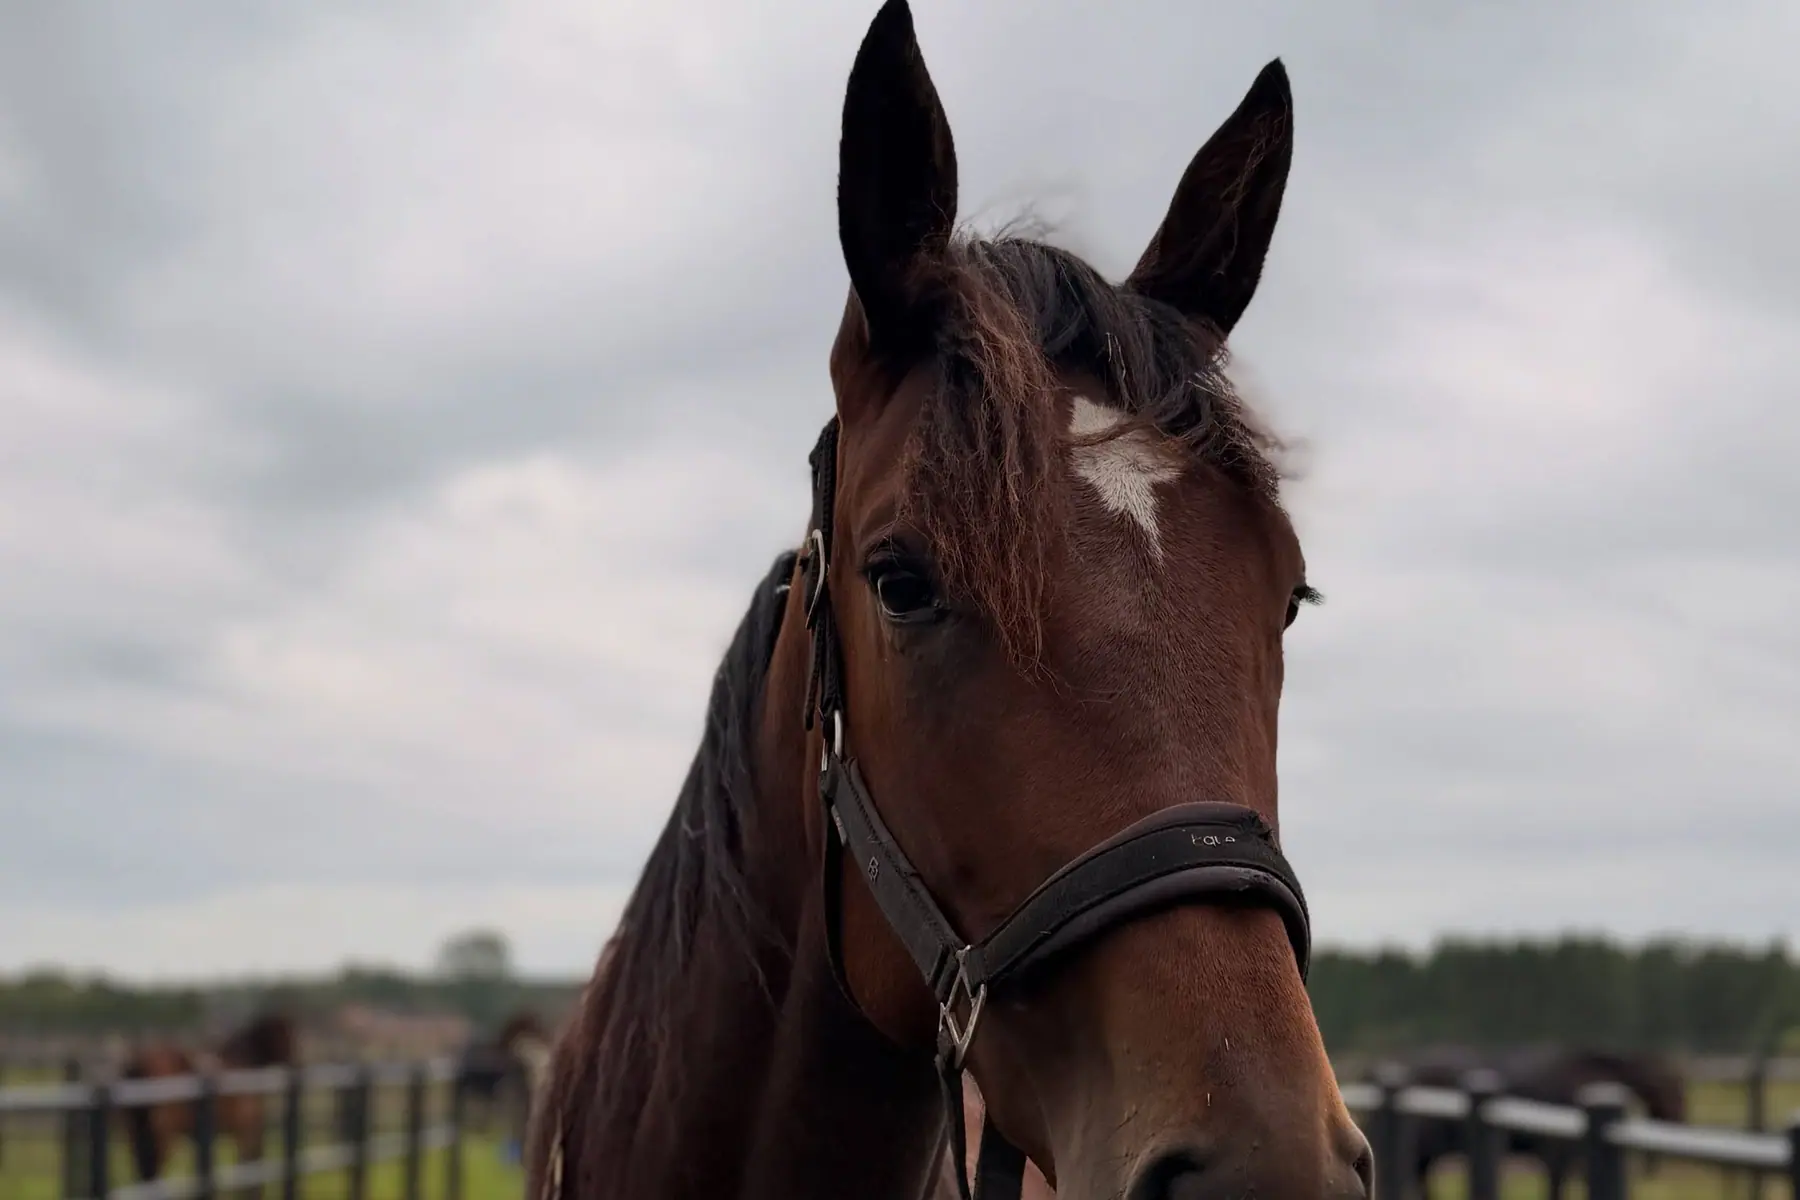
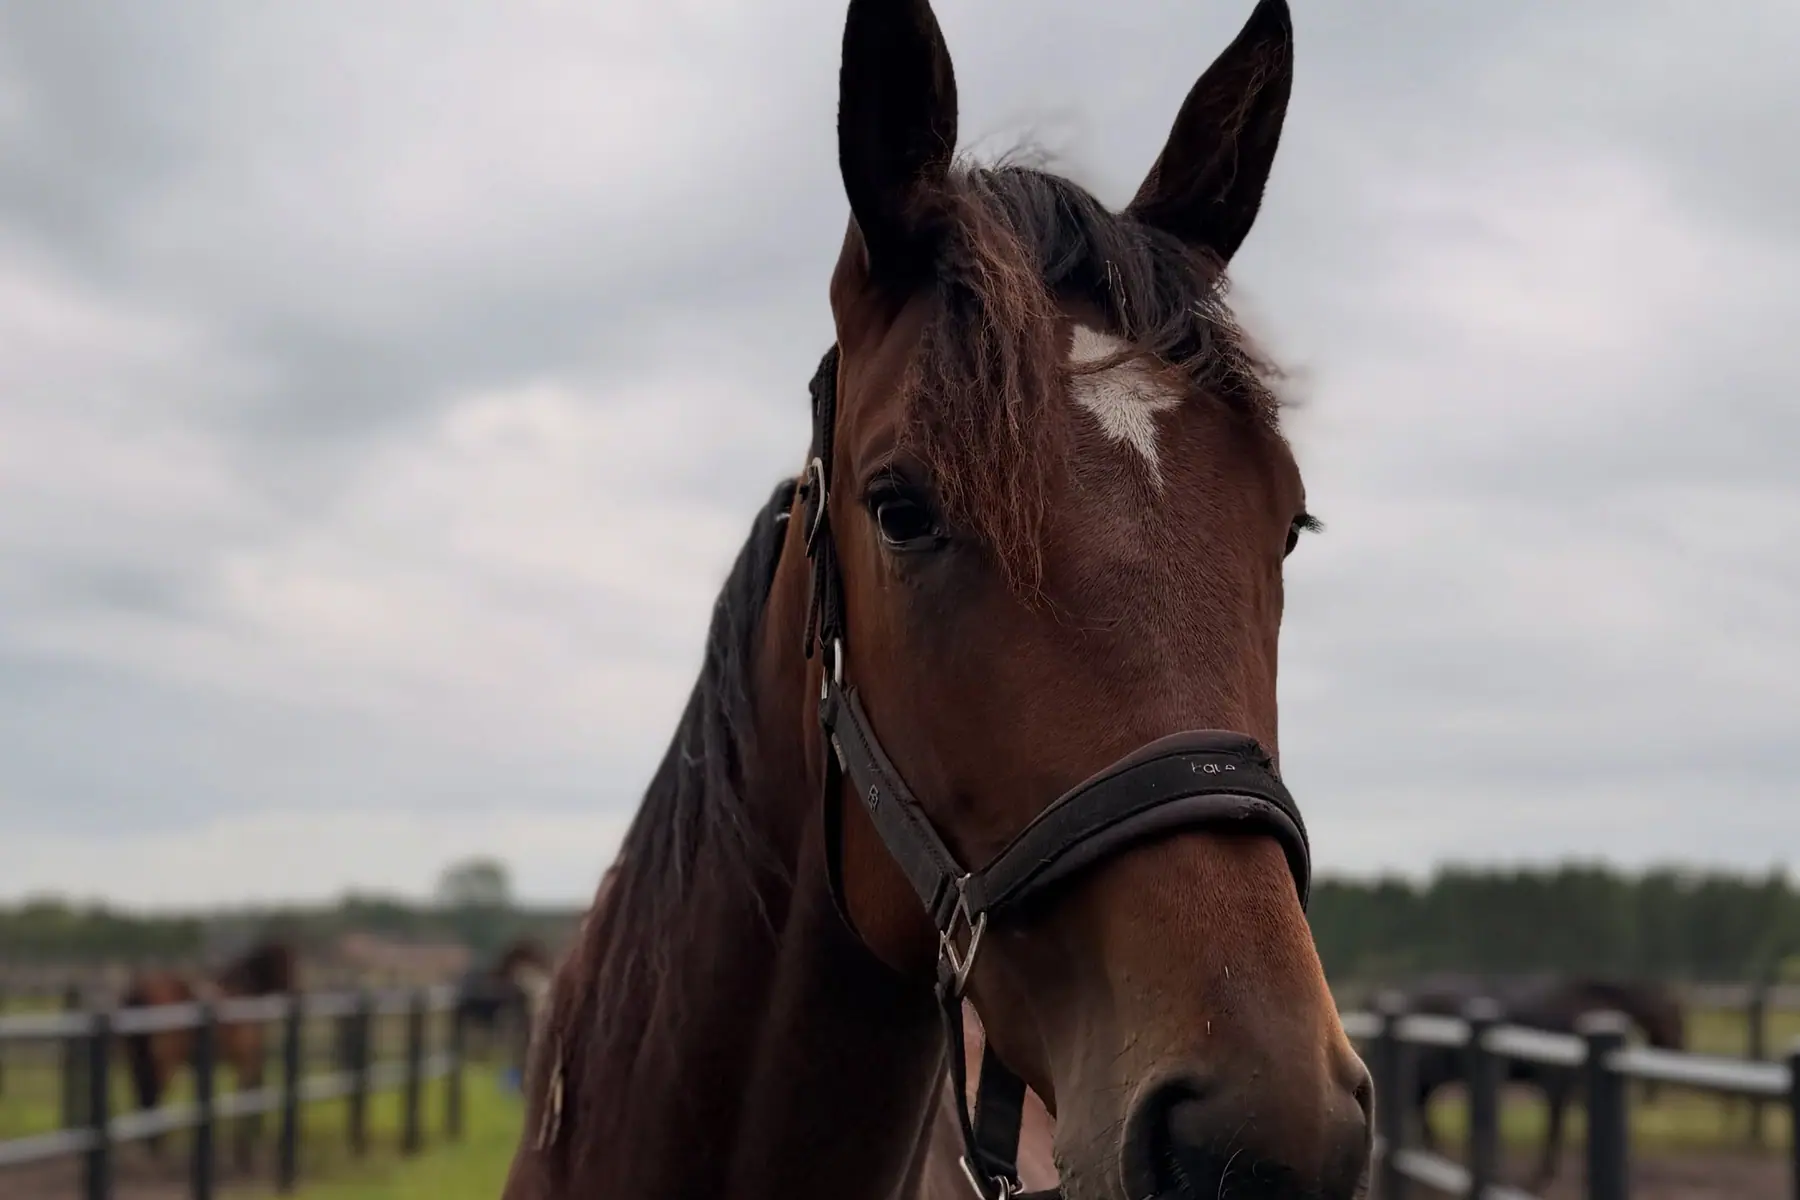
Sidehoveder: billede i fuld bredde på Stalden, Heste og Kontakt

diff --git a/assets/css/site.css b/assets/css/site.css
@@ -400,6 +400,10 @@ html:not(.js) .fb { display: none; }
 .sidehoved--fuld .sidehoved__billede::after { content: ""; position: absolute; inset: 0; background: linear-gradient(180deg, rgba(10, 20, 40, .4) 0%, rgba(10, 20, 40, 0) 18%); }
 .sidehoved--fuld .sidehoved__tekst::before { content: ""; position: absolute; z-index: -1; inset: -170px -100vw 0; background: linear-gradient(180deg, rgba(10, 20, 40, 0) 0, rgba(10, 20, 40, .3) 85px, rgba(10, 20, 40, .55) 170px, rgba(10, 20, 40, .68) 100%); mask-image: linear-gradient(90deg, #000 calc(100% - 112vw), transparent calc(100% - 76vw)); }
 @media (max-aspect-ratio: 1/1) { .sidehoved--fuld .sidehoved__billede img { object-position: var(--pos); } }
+@media (min-width: 961px) and (min-aspect-ratio: 1/1) {
+  .sidehoved--hoejre .sidehoved__tekst { margin-left: auto; max-width: 50%; }
+  .sidehoved--hoejre .sidehoved__tekst::before { mask-image: linear-gradient(270deg, #000 calc(100% - 112vw), transparent calc(100% - 76vw)); }
+}
 /* Den bløde skygge ses ikke på den mørke flade; den holder overskriften læselig dér, hvor den rækker ind over billedet. */
 .sidehoved h1 { font-size: clamp(3.9rem, 11.4vw, 10.5rem); line-height: .88; letter-spacing: -.022em; text-shadow: 0 0 48px rgba(10, 20, 40, .6), 0 0 14px rgba(10, 20, 40, .35); }
 .sidehoved .indled { max-width: min(600px, 44vw); margin-top: clamp(24px, 3vw, 40px); color: rgba(255, 255, 255, .84); }
